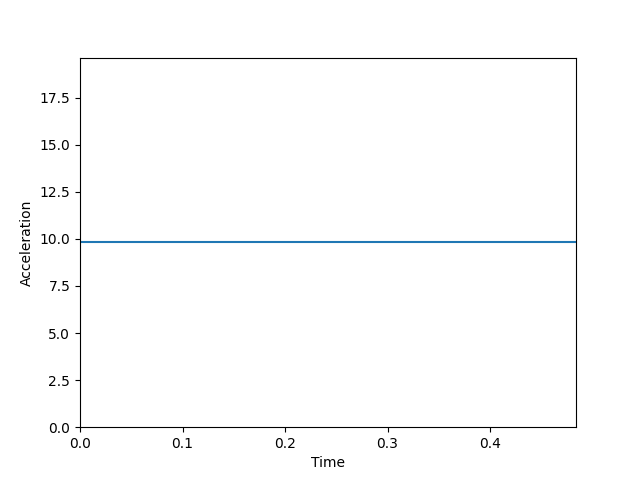
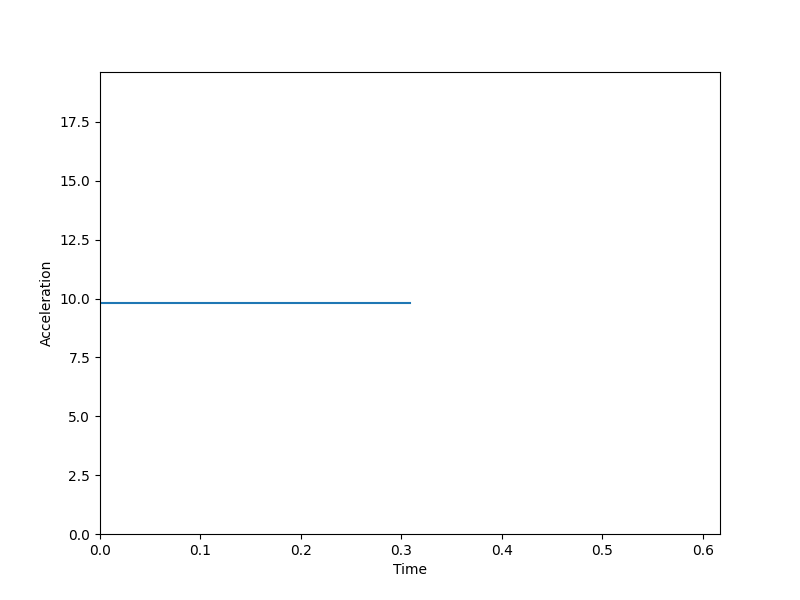
implemented correct displ time graph equation

diff --git a/projectile_simulator.py b/projectile_simulator.py
@@ -58,15 +58,15 @@ class Calculations:
             t = t2
         if t2 < 0:
             t = t1
+        print(t*2)
+        print(h_max)
         return t*2
     
     def find_equation(self,v_velocity,h_velocity,t):
         mag_velocity = self.magnitude(v_velocity,h_velocity)
         #gradient = (2*mag_velocity)/t
         gradient = float(acceleration)
-        print(gradient)
         constant = (-mag_velocity)-(gradient*t)
-        print(constant)
         return gradient,constant
     
     def integrate(self,gradient):
@@ -146,7 +146,7 @@ class Graphics:
             gradient_integrated = c.integrate(gradient)
             plot_acceltime(t)
             plot_veloctime(v_velocity,h_velocity,t)
-            plot_displtime(gradient_integrated,constant,t,h_max)
+            plot_displtime(t,h_max)
             graphs.menu()
         if keys[pygame.K_UP]:
             v_velocity+=0.5
@@ -189,7 +189,9 @@ def plot_xy(x,y):
 
 def plot_veloctime(v_velocity,h_velocity,t):
     v = c.magnitude(v_velocity,h_velocity)
-    plt.figure(1)
+    f = plt.figure(1)
+    f.set_figwidth(8)
+    f.set_figheight(6)
     plt.xlabel("Time")
     plt.ylabel("Velocity")
     plt.plot((0,t),(v,-v))
@@ -200,7 +202,9 @@ def plot_veloctime(v_velocity,h_velocity,t):
     plt.close()
 
 def plot_acceltime(t):
-    plt.figure(2)
+    f = plt.figure(2)
+    f.set_figwidth(8)
+    f.set_figheight(6)
     plt.xlabel("Time")
     plt.ylabel("Acceleration")
     plt.xlim(0,t)
@@ -209,16 +213,19 @@ def plot_acceltime(t):
     plt.savefig("saves/accel_time.png")
     plt.close()
 
-def plot_displtime(gradient_integrated,constant,t,h_max):
-    plt.figure(3)
+def plot_displtime(t,h_max):
+    f = plt.figure(3)
+    f.set_figwidth(8)
+    f.set_figheight(6)
     x = plb.arange(0,t*2,0.01)
-    if constant < 0:
-        constant*=-1
-    y = -gradient_integrated*(x**2) + constant*x
+    h = 2.2*h_max
+    a = -(2*h)/(t**2+t**3)
+    b = -a*t
+    print(a,b)
+    y = a*(x**2)+(b*x)
     plt.xlabel("Time")
     plt.ylabel("Displacement")
     plt.ylim(0,h_max)
-    plt.xlim(0,t*2)
     plt.plot(x,y)
     plt.savefig("saves/displ_time.png")
     plt.close()
